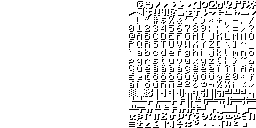
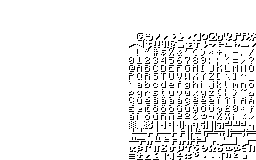
Optimised font packed into VRAM to overlay with debug font

Changed region(s): [[0.5, 0.0, 1.0, 1.0]]

diff --git a/src/render/font.c b/src/render/font.c
@@ -194,8 +194,8 @@ void* fontFlush(FontID id) {
 			setXY0(sprite, stream_x, stream_y);
 			setUV0(
 				sprite,
-				(c % FONT_SPRITE_WIDTH) * FONT_CHARACTER_SPRITE_WIDTH + texture_offset,
-				(c / FONT_SPRITE_HEIGHT) * FONT_CHARACTER_SPRITE_HEIGHT
+				((c % FONT_SPRITE_WIDTH) * FONT_CHARACTER_SPRITE_WIDTH) + texture_offset,
+				((c / FONT_SPRITE_HEIGHT) * FONT_CHARACTER_SPRITE_HEIGHT) + FONT_SPRITE_V_OFFSET
 			);
 			sprite->clut = tex_ref->clut;
 			setaddr(primitive, sprite);
@@ -244,8 +244,8 @@ void* fontSort(u32* ordering_table,
 			setXY0(sprite, stream_x, stream_y);
 			setUV0(
 				sprite,
-				(i % FONT_SPRITE_WIDTH) * FONT_CHARACTER_SPRITE_WIDTH + texture_offset,
-				(i / FONT_SPRITE_HEIGHT) * FONT_CHARACTER_SPRITE_HEIGHT
+				((i % FONT_SPRITE_WIDTH) * FONT_CHARACTER_SPRITE_WIDTH) + texture_offset,
+				((i / FONT_SPRITE_HEIGHT) * FONT_CHARACTER_SPRITE_HEIGHT) + FONT_SPRITE_V_OFFSET
 			);
 			sprite->clut = tex_ref->clut;
 			addPrim(ordering_table, sprite);

diff --git a/src/game/minecraft.c b/src/game/minecraft.c
@@ -84,6 +84,9 @@ void Minecraft_init(VSelf, void* ctx) {
     gte_SetGeomScreen(100);
     initRenderContext(&self->internals.ctx);
     inputInit(&self->internals.input);
+    // Unpack LZP archive and load assets
+    assetsLoad();
+    fontLoad();
     // Load font and open a text stream
     FntLoad(960, 0);
     FntOpen(0, 8, 320, 216, 0, 160);
@@ -95,9 +98,6 @@ void Minecraft_init(VSelf, void* ctx) {
         0,
         (SCREEN_XRES / FONT_SPRITE_WIDTH) * 6
     );
-    // Unpack LZP archive and load assets
-    assetsLoad();
-    fontLoad();
     // Initialise world
     self->world = (World*) malloc(sizeof(World));
     self->world->head.vx = 0;

diff --git a/src/resources/asset_indices.h b/src/resources/asset_indices.h
@@ -7,6 +7,6 @@
 #define ASSET_TEXTURES_GUI_INDEX 0
 #define ASSET_TEXTURES_TERRAIN_INDEX 1
 #define ASSET_TEXTURES_FONT_INDEX 2
-#define ASSET_TEXTURES_FONT_SHADOWED_INDEX 3
+#define ASSET_TEXTURES_ITEMS_INDEX 3
 
 #endif // PSXMC_ASSET_INDICES_H

diff --git a/src/render/font.h b/src/render/font.h
@@ -12,6 +12,7 @@
 #define FONT_CHARACTER_SPRITE_HEIGHT 8
 #define FONT_SPRITE_WIDTH 16
 #define FONT_SPRITE_HEIGHT 16
+#define FONT_SPRITE_V_OFFSET 32
 
 typedef int FontID;
 
